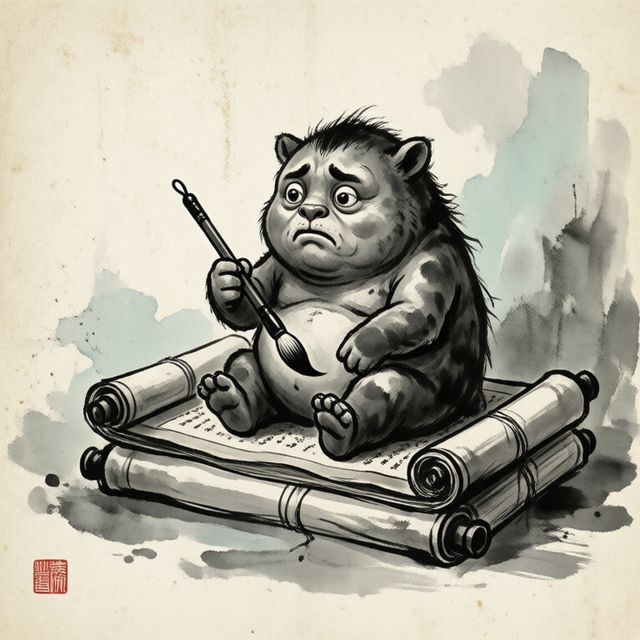
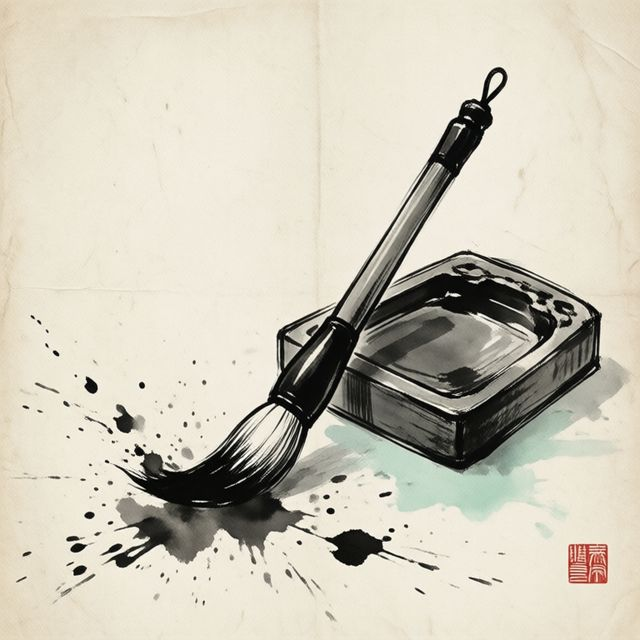
介紹網頁：聊天插圖換成毛筆與硯台
Claude-Session: https://claude.ai/code/session_01MTZBpPx31Snei4yoZENCFZ

diff --git a/docs/index.html b/docs/index.html
@@ -164,7 +164,7 @@ footer p{margin:0;color:var(--ink-2);font-size:15px}
       <p class="intro">私訊它、在頻道 @它、回覆它的訊息，它就會回。其他機器人說的話一律不理，免得兩隻機器人吵個沒完。</p>
       <ul class="rows">
         <li class="has-art"><span class="stamp" aria-hidden="true">聊</span><div><h3>聊天、看圖、上網</h3>
-          <p>讀頻道前面的訊息當上下文，圖片也看得懂（最近 4 則裡最多 4 張）。問天氣會去查，需要即時資訊時自己決定要不要搜尋、打開網頁。後面接什麼模型由你決定，本機的 Ollama，或 OpenAI、DeepSeek 這類線上服務都行。</p></div><img class="art" src="img/chat.jpg" width="640" height="640" loading="lazy" alt="水墨畫：一隻圓滾滾、一臉困惑的小怪獸坐在書卷上，手裡拿著毛筆"></li>
+          <p>讀頻道前面的訊息當上下文，圖片也看得懂（最近 4 則裡最多 4 張）。問天氣會去查，需要即時資訊時自己決定要不要搜尋、打開網頁。後面接什麼模型由你決定，本機的 Ollama，或 OpenAI、DeepSeek 這類線上服務都行。</p></div><img class="art" src="img/chat.jpg" width="640" height="640" loading="lazy" alt="水墨畫：一支毛筆靠在硯台上，旁邊濺著幾點墨"></li>
         <li class="has-art"><span class="stamp" aria-hidden="true">樂</span><div><h3>放 YouTube 音樂</h3>
           <p>進語音頻道後說「放周杰倫的晴天」，或用指令貼網址、整個播放清單。有佇列、插播、播放面板和進度條，沒人聽了會自己離開。</p></div><img class="art" src="img/music.jpg" width="640" height="640" loading="lazy" alt="水墨畫：月夜的河邊擺著古琴和竹笛，煙霧裡飄著音符"></li>
         <li class="has-art"><span class="stamp" aria-hidden="true">卜</span><div><h3>占卜</h3>
